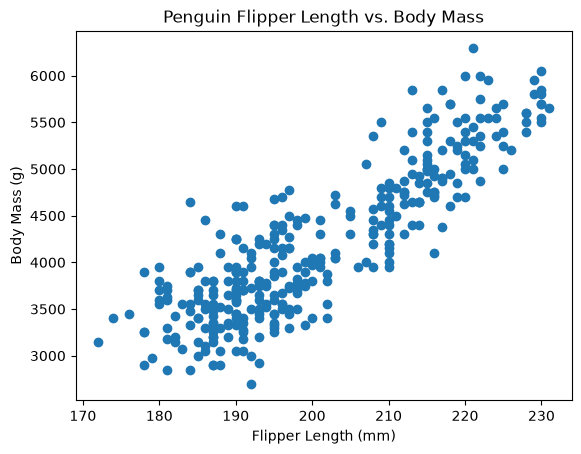
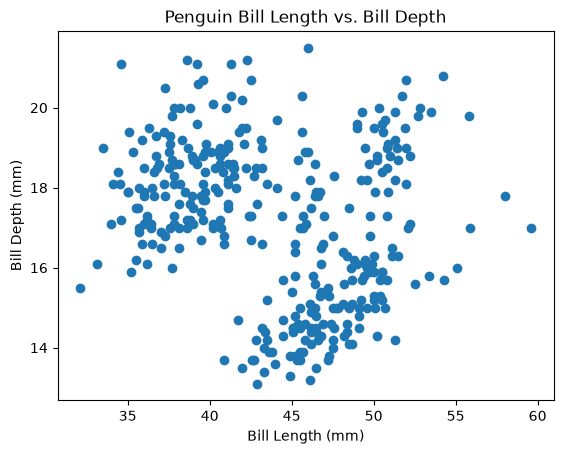
Exploratory phase 1: compare penguin bill dimensions.

diff --git a/src/datafun/app.py b/src/datafun/app.py
@@ -1,6 +1,6 @@
 """src/datafun/app.py - Project script (example).
 
-Author: Denise Case
+Author: Denise Case & Joseph Michael Tomasso
 Date: 2026-08
 
 RUN:
@@ -125,8 +125,8 @@ CATEGORICAL_COLUMNS: Final[list[str]] = [
 
 # === CHOOSE ONE RELATIONSHIP TO EXPLORE ===
 
-X_COLUMN: Final[str] = "flipper_length_mm"
-Y_COLUMN: Final[str] = "body_mass_g"
+X_COLUMN: Final[str] = "bill_length_mm"
+Y_COLUMN: Final[str] = "bill_depth_mm"
 
 
 # === DEFINE THE MAIN FUNCTION ===
@@ -287,9 +287,9 @@ def main() -> None:
     )
 
     # CUSTOM: Analyst must customize the Matplotlib Axes object with a title and axis labels.
-    relationship_ax.set_title("Penguin Flipper Length vs. Body Mass")
-    relationship_ax.set_xlabel("Flipper Length (mm)")
-    relationship_ax.set_ylabel("Body Mass (g)")
+    relationship_ax.set_title("Penguin Bill Length vs. Bill Depth")
+    relationship_ax.set_xlabel("Bill Length (mm)")
+    relationship_ax.set_ylabel("Bill Depth (mm)")
 
     save_chart(
         relationship_ax,
@@ -310,11 +310,10 @@ def main() -> None:
     Some observations (rows) are complete, but some are missing values.
 
     I reviewed the relationship between:
-    Flipper length vs. body mass
-    and it shows a positive relationship.
+    Bill length vs. bill depth
+    and it shows a weak negative linear correlation when all penguins are observed together.
 
-    Based on this EDA, I would next like to review additional
-    relationships between other numeric variables.
+    Based on this EDA, I would next like to isolate individual species of penguins.
     Marimo (reactive notebook cells) might be a good choice
     for additional exploration.
     """)
